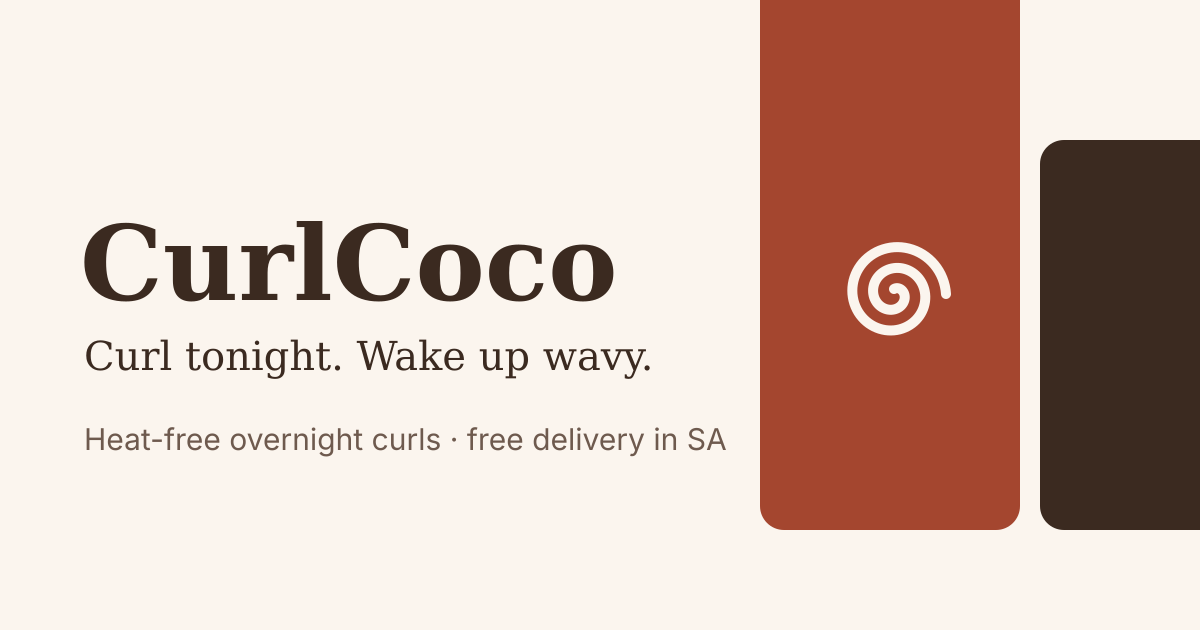
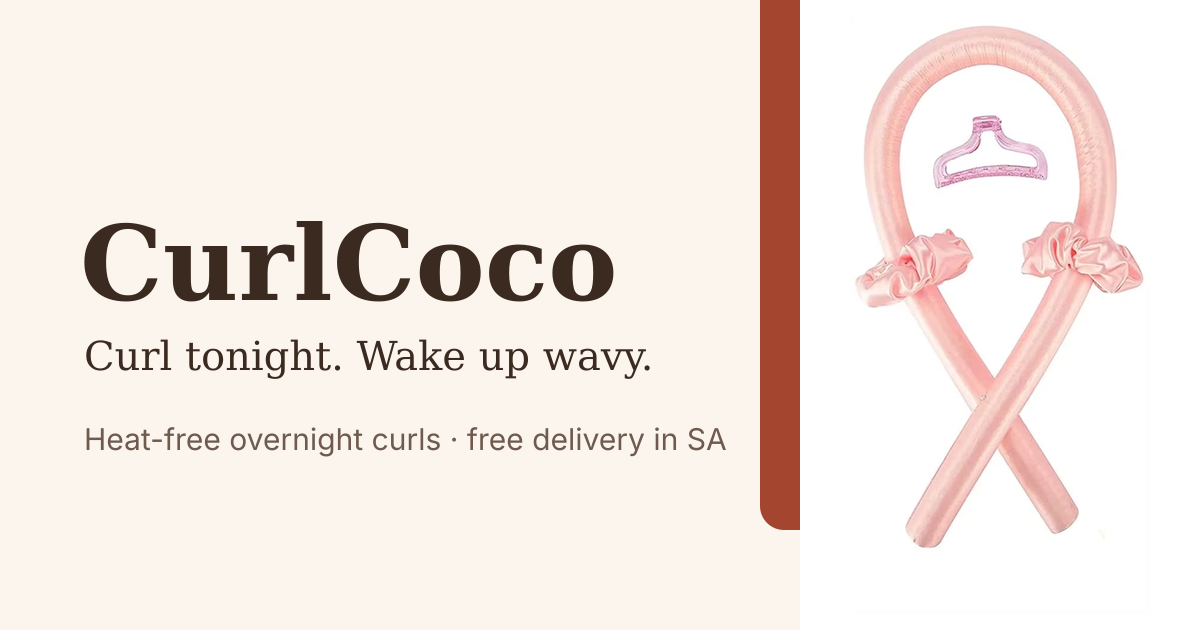
Use supplier product photos (product-only shots) for hero, close-up and share image
Claude-Session: https://claude.ai/code/session_01LL4xK9DSMgNdFq7pY14cvD

Changed region(s): [[0.6475, 0.0, 1.0, 0.8746]]

diff --git a/src/index.html b/src/index.html
@@ -48,7 +48,7 @@
         <video autoplay muted loop playsinline preload="metadata" poster="/media/hero-poster.jpg" aria-label="Wrapping hair around the curling rod at night and shaking out curls in the morning"><source src="/media/hero.mp4" type="video/mp4"></video>
 <!-- @else VIDEO -->
 <!-- @if PHOTO -->
-        <img src="/media/hero.jpg" width="1040" height="1120" alt="The CurlCoco heatless curling rod with two scrunchies" fetchpriority="high">
+        <picture><source srcset="/media/hero.webp" type="image/webp"><img src="/media/hero.jpg" width="1040" height="1120" alt="Pink heatless curling rod looped into a ribbon shape, with two scrunchie hair ties and a pink hair clip" fetchpriority="high"></picture>
 <!-- @else PHOTO -->
         <svg viewBox="0 0 520 560" role="img" aria-labelledby="ill-title">
           <title id="ill-title">Illustration of the curling rod looped into a ribbon shape, with two scrunchies</title>
@@ -132,10 +132,12 @@
         <table class="specs"><tbody>
           <tr><th scope="row">Included</th><td>%%SPEC_IN_BOX%%</td></tr>
           <tr><th scope="row">Rod</th><td>%%SPEC_ROD%%</td></tr>
+          <tr><th scope="row">Colour</th><td>Pink, as shown (colour may look slightly different on your screen)</td></tr>
           <tr><th scope="row">Made in</th><td>China</td></tr>
           <tr><th scope="row">Brand</th><td>Unbranded product, sold by %%BRAND%%</td></tr>
           <tr><th scope="row">Delivery</th><td>Free, %%DELIVERY_ESTIMATE%%. Ships from %%DISPATCH_FROM%% in the supplier's packaging.</td></tr>
         </tbody></table>
+          <figure class="closeup"><img src="/media/end-closeup.jpg" width="488" height="612" loading="lazy" alt="Close-up of the rod end, where the cloth cover is stitched closed"><figcaption>The cloth cover is stitched closed at each end. Photos: supplier product photos.</figcaption></figure>
       </div>
       <div class="faq">
         <p class="eyebrow">Questions</p>

diff --git a/src/assets/css/site.css b/src/assets/css/site.css
@@ -179,3 +179,9 @@ body.has-sticky{padding-bottom:72px}
 
 .media-tag{left:50%;transform:translateX(-50%);white-space:nowrap}
 @media (max-width:520px){.media-tag{font-size:11px;padding:8px 12px;bottom:12px}}
+
+.hero-media picture,.hero-media img{display:block;width:100%;height:100%}
+.hero-media img{object-fit:contain;background:#fff}
+.closeup{margin:var(--s6) 0 0;display:flex;gap:var(--s4);align-items:center}
+.closeup img{width:120px;height:auto;border-radius:var(--r-md);border:1px solid var(--line);flex:none}
+.closeup figcaption{font-size:14px;color:var(--cocoa)}
